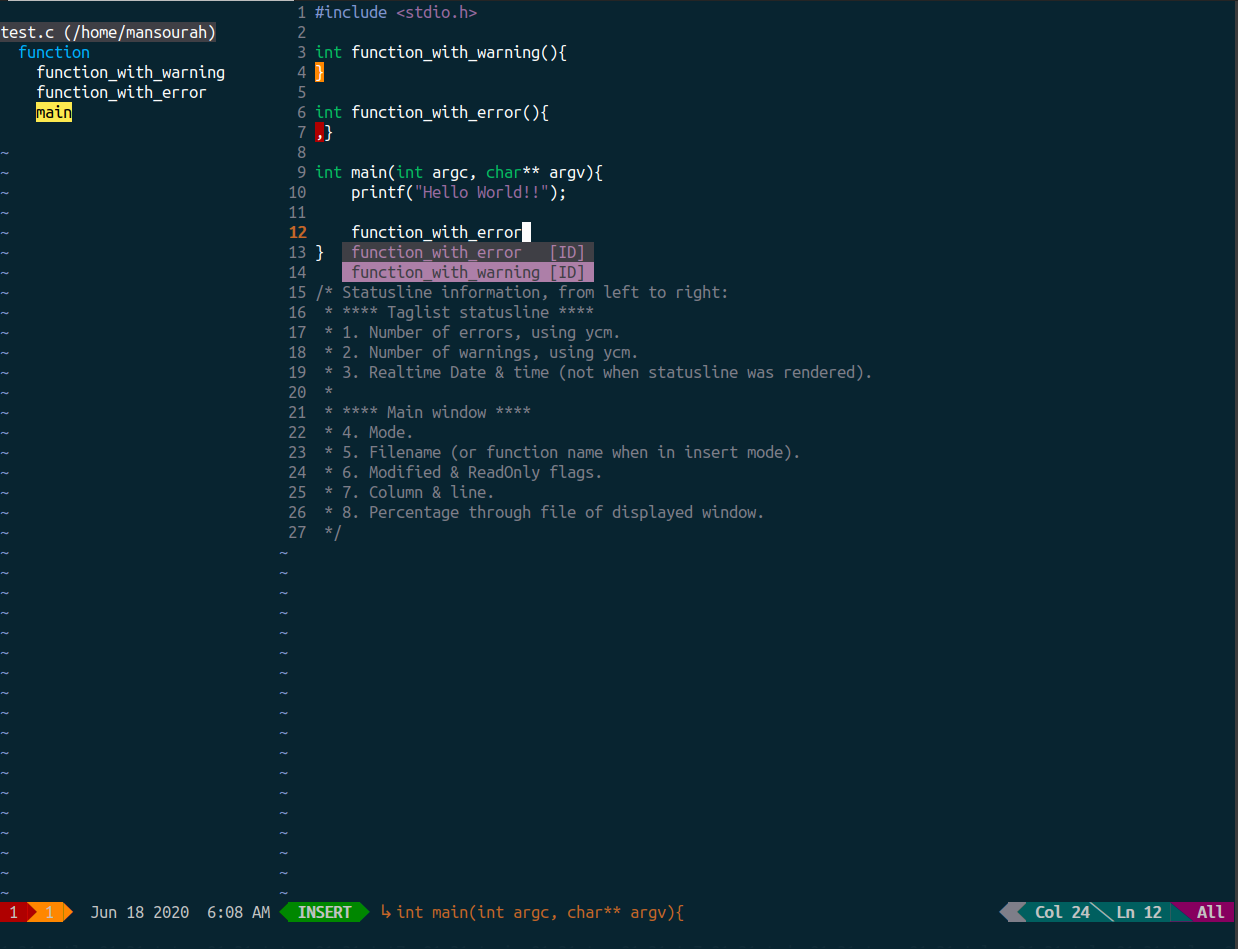
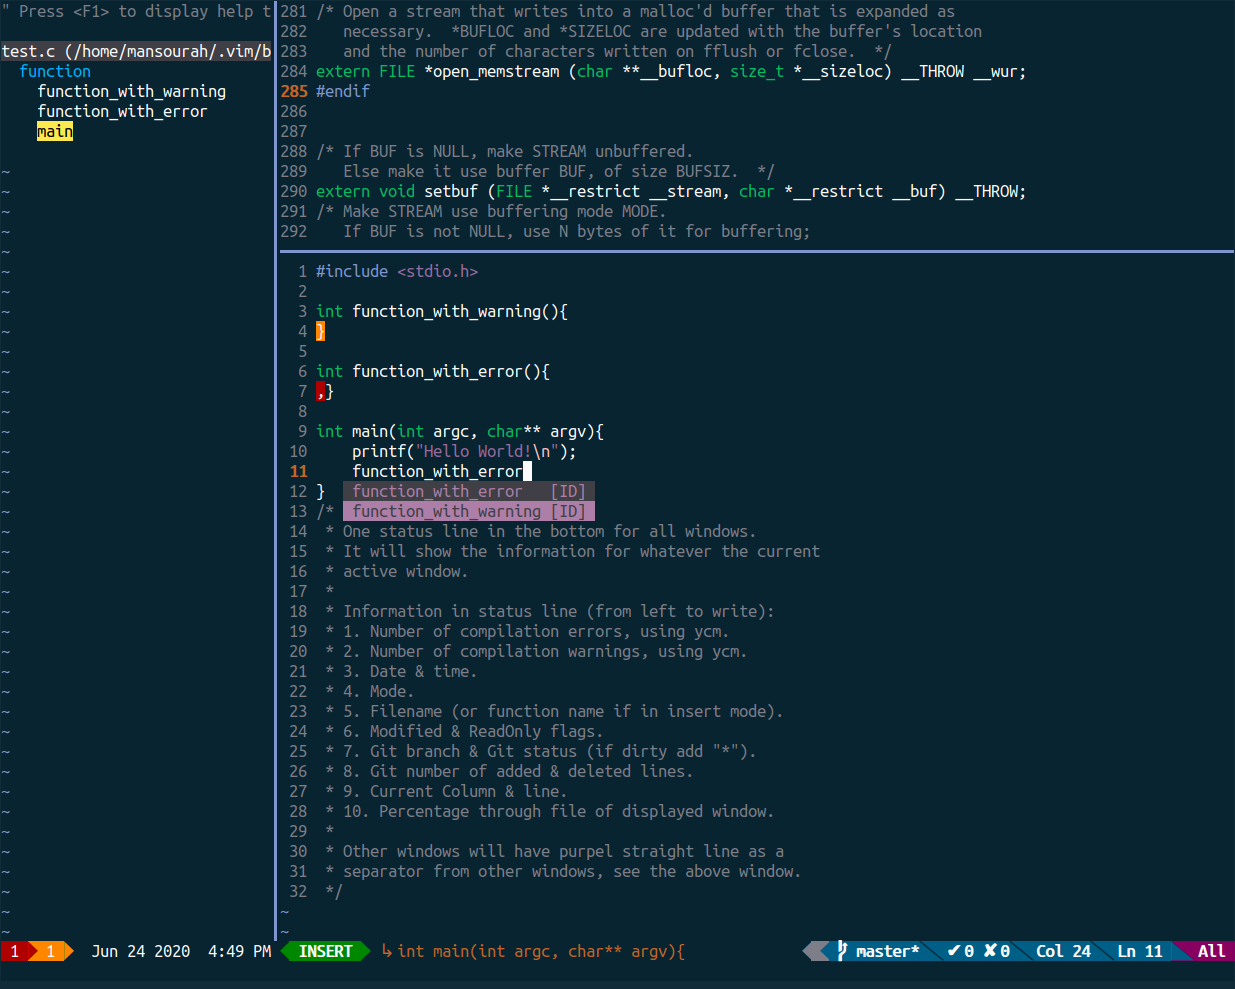
x

Changed region(s): [[0.0, 0.0, 1.0, 1.0], [0.5538, 0.4584, 0.6462, 0.4889]]

diff --git a/README.md b/README.md
@@ -1,14 +1,25 @@
 Long StatusLine
 ===============
 
-A vim status line that span two windows: the main buffer window's and Taglist.
+A **single** vim status line that is located at the bottom, showing information
+for whatever the active window is. 
+
+See the comments in the demo below for more.
 
 ![screenshot](screenshot.png)
 
-### Note:
-This plugin is NOT ready to use out of the box.. It is far from a complete
-project. Please read the code before trying to install it.
+## Dependencies
 
-### Bonus:
-You may find the colorscheme in `colors/`, you just need to symlink it in vim's
-`colors/` directory.. and also the `vimrc` file in `vimrc/` because why not.. :)
+* [YCM](https://github.com/ycm-core/YouCompleteMe): For errors and warnings.
+* [TagList](https://github.com/yegappan/taglist): Status line spans Taglist's
+  window too.
+* [Asyncrun](https://github.com/skywind3000/asyncrun.vim): To get Git
+  information asynchronously without a slowdown.
+
+Use at your own risk, this is not a complete project. You can view my
+[vimrc](vimrc/vimrc.vim) to see my full Vim setup and replicate in your system,
+hopefully not many changes are needed.
+
+### More
+The colorscheme is in `colors/`, you just need to symlink it in vim's
+`colors/` directory.
